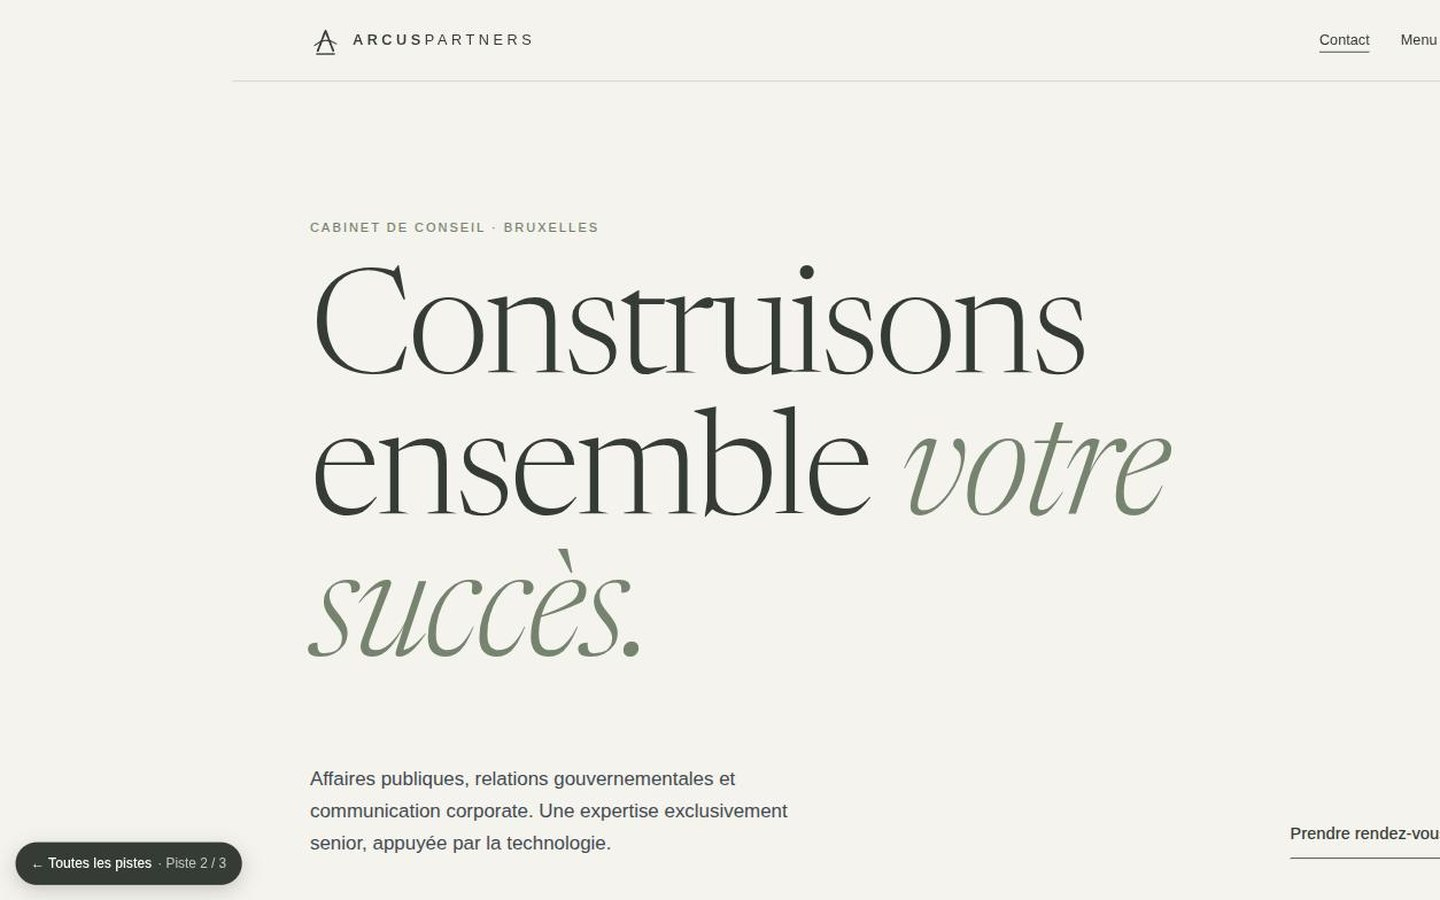
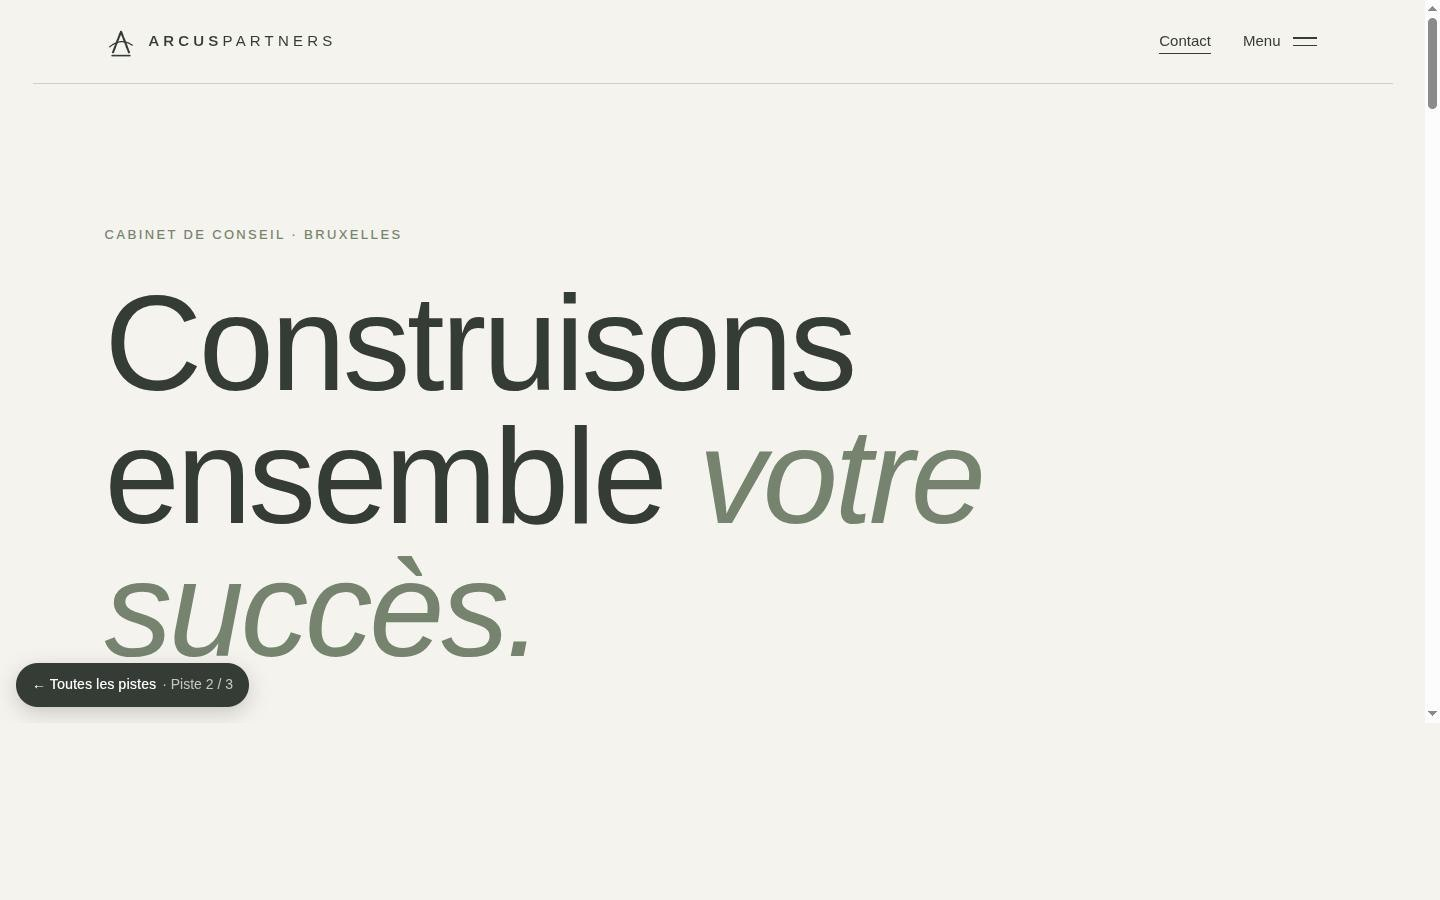
Ouvre les pistes dans un nouvel onglet et unifie la typo V2 en Arimo
Les 3 tuiles de la page d'accueil ouvrent desormais leur piste dans
un nouvel onglet (target="_blank") plutot que de naviguer hors de
la page de comparaison.

La piste 2 utilisait encore Newsreader (serif) pour les titres ;
elle passe entierement a Arimo comme les 2 autres pistes. Le poids
300 (absent chez Arimo, qui va de 400 a 700) est remplace par 400
partout ou il etait utilise. Le google font Newsreader, plus charge,
est retire du head. Vignette V2 regeneree.

Claude-Session: https://claude.ai/code/session_01GE1E4YgtJhGfgbkhegfAHw

diff --git a/v2/styles.css b/v2/styles.css
@@ -1,7 +1,7 @@
 /* =========================================================
    Arcus Partners - Piste 2 · Éditoriale
-   Inspiration Brunswick : papier chaud, serif de titrage, beaucoup d'air
-   Couleurs issues de la charte (palette definitive, v4)
+   Inspiration Brunswick : papier chaud, grands titres, beaucoup d'air
+   Couleurs et typo issues de la charte (palette definitive, v4)
    ========================================================= */
 
 :root {
@@ -16,7 +16,7 @@
   --line: #D4D0C6;
   --placeholder: #D8D5CC;
 
-  --serif: "Newsreader", "Iowan Old Style", Georgia, serif;
+  --serif: "Arimo", system-ui, -apple-system, "Segoe UI", sans-serif;
   --sans: "Arimo", system-ui, -apple-system, "Segoe UI", sans-serif;
 
   --gutter: clamp(20px, 5vw, 80px);
@@ -55,7 +55,7 @@ em { font-style: italic; color: var(--sage); }
 .header-inner { height: 84px; display: flex; align-items: center; justify-content: space-between; border-bottom: 1px solid var(--line); }
 .logo { display: inline-flex; align-items: center; gap: 12px; color: var(--ink); }
 .logo-mark { width: 32px; height: 32px; }
-.logo-text { font-size: 15px; letter-spacing: .28em; font-weight: 300; }
+.logo-text { font-size: 15px; letter-spacing: .28em; font-weight: 400; }
 .logo-text b { font-weight: 600; }
 .logo-text--sm { font-size: 13px; }
 .header-right { display: flex; align-items: center; gap: 28px; }
@@ -78,7 +78,7 @@ em { font-style: italic; color: var(--sage); }
 .menu-inner { padding-block: 48px; display: flex; flex-direction: column; gap: 40px; }
 .menu-list a {
   display: flex; align-items: baseline; gap: 24px; padding-block: 14px;
-  font-family: var(--serif); font-weight: 300; font-size: clamp(36px, 6vw, 72px); line-height: 1.1;
+  font-family: var(--serif); font-weight: 400; font-size: clamp(36px, 6vw, 72px); line-height: 1.1;
   border-bottom: 1px solid var(--line); transition: color .2s, padding-left .3s;
 }
 .menu-list a span { font-family: var(--sans); font-size: 14px; color: var(--sage); min-width: 28px; }
@@ -91,7 +91,7 @@ body.menu-open { overflow: hidden; }
 .hero { padding-top: clamp(64px, 10vw, 140px); padding-bottom: clamp(48px, 6vw, 80px); }
 .hero .eyebrow { margin-bottom: 32px; }
 .hero-title {
-  font-family: var(--serif); font-weight: 300;
+  font-family: var(--serif); font-weight: 400;
   font-size: clamp(52px, 9.4vw, 148px); line-height: .98; letter-spacing: -.025em;
   max-width: 12ch;
 }
@@ -116,7 +116,7 @@ body.menu-open { overflow: hidden; }
 .section-grid { display: grid; grid-template-columns: minmax(0, 1fr) minmax(0, 3fr); gap: 40px 64px; }
 .section-grid > .eyebrow { padding-top: 14px; }
 .h2 {
-  font-family: var(--serif); font-weight: 300;
+  font-family: var(--serif); font-weight: 400;
   font-size: clamp(38px, 4.6vw, 68px); line-height: 1.05; letter-spacing: -.015em;
   margin-bottom: clamp(40px, 5vw, 72px);
 }
@@ -137,13 +137,13 @@ body.menu-open { overflow: hidden; }
 /* Citation mission */
 .quote {
   margin: 40px auto 0; max-width: 22ch; text-align: center;
-  font-family: var(--serif); font-weight: 300; font-style: italic;
+  font-family: var(--serif); font-weight: 400; font-style: italic;
   font-size: clamp(32px, 4.4vw, 64px); line-height: 1.12; color: var(--ink);
 }
 .quote-intro { margin: 40px auto 0; max-width: 640px; text-align: center; color: var(--charcoal); }
 .trio { margin-top: clamp(56px, 7vw, 96px); display: grid; grid-template-columns: repeat(3, minmax(0, 1fr)); gap: 48px; }
 .trio-item { border-top: 1px solid var(--ink); padding-top: 24px; display: flex; flex-direction: column; gap: 12px; }
-.trio-num { font-family: var(--serif); font-size: 56px; font-weight: 300; line-height: 1; color: var(--sage); }
+.trio-num { font-family: var(--serif); font-size: 56px; font-weight: 400; line-height: 1; color: var(--sage); }
 .trio-item h3 { font-size: 19px; font-weight: 600; }
 .trio-item p { color: var(--charcoal); font-size: 16px; }
 
@@ -153,7 +153,7 @@ body.menu-open { overflow: hidden; }
 .marquee { overflow: hidden; }
 .marquee-track { display: flex; width: max-content; animation: marquee 40s linear infinite; }
 .marquee-track span {
-  font-family: var(--serif); font-weight: 300; font-style: italic;
+  font-family: var(--serif); font-weight: 400; font-style: italic;
   font-size: clamp(44px, 6vw, 88px); line-height: 1.1; padding-inline: 40px; white-space: nowrap;
 }
 .marquee-track span::after { content: "·"; margin-left: 80px; color: var(--sage); font-style: normal; }
@@ -175,7 +175,7 @@ body.menu-open { overflow: hidden; }
 .contact { background: var(--sage-deep); color: #F5F3EE; padding-block: var(--section-y); }
 .contact em { color: #D8DDCF; }
 .contact-inner { display: grid; grid-template-columns: minmax(0, 1.4fr) minmax(0, 1fr); gap: 48px 80px; align-items: end; }
-.contact-title { font-family: var(--serif); font-weight: 300; font-size: clamp(48px, 7vw, 108px); line-height: 1; letter-spacing: -.02em; }
+.contact-title { font-family: var(--serif); font-weight: 400; font-size: clamp(48px, 7vw, 108px); line-height: 1; letter-spacing: -.02em; }
 .contact-side { display: flex; flex-direction: column; gap: 20px; font-size: 17px; }
 .contact-mail {
   font-family: var(--serif); font-size: clamp(24px, 2.4vw, 34px);

diff --git a/index.html b/index.html
@@ -26,7 +26,7 @@
 
     <ul class="tiles">
       <li>
-        <a class="tile" href="v1/">
+        <a class="tile" href="v1/" target="_blank" rel="noopener">
           <div class="tile-thumb"><img src="thumbs/v1.jpg" alt="Aperçu de la piste 1 : en-tête blanc, grand titre vert fonce, photo à droite" loading="lazy" width="1440" height="900"></div>
           <div class="tile-body">
             <p class="tile-num">Piste 1</p>
@@ -41,22 +41,22 @@
         </a>
       </li>
       <li>
-        <a class="tile" href="v2/">
-          <div class="tile-thumb"><img src="thumbs/v2.jpg" alt="Aperçu de la piste 2 : fond papier, très grand titre en serif avec mots en vert sauge" loading="lazy" width="1440" height="900"></div>
+        <a class="tile" href="v2/" target="_blank" rel="noopener">
+          <div class="tile-thumb"><img src="thumbs/v2.jpg" alt="Aperçu de la piste 2 : fond papier, très grand titre avec mots en vert sauge" loading="lazy" width="1440" height="900"></div>
           <div class="tile-body">
             <p class="tile-num">Piste 2</p>
             <h2>Éditoriale</h2>
-            <p>Dans l’esprit de Brunswick. Papier chaud, grands titres en serif, beaucoup d’air, sauge en accent. Un ton de magazine d’opinion.</p>
+            <p>Dans l’esprit de Brunswick. Papier chaud, grands titres, beaucoup d’air, sauge en accent. Un ton de magazine d’opinion.</p>
             <ul class="swatches" aria-label="Palette">
               <li style="--c:#323932" title="Encre"></li><li style="--c:#616F5C" title="Sauge profond"></li><li style="--c:#76846F" title="Sauge"></li><li style="--c:#F5F3EE" title="Papier"></li>
             </ul>
-            <p class="tile-tags">Logo concept 1 · Serif + sans · Menu plein écran</p>
+            <p class="tile-tags">Logo concept 1 · Arimo · Menu plein écran</p>
             <span class="tile-cta">Voir la maquette <span aria-hidden="true">→</span></span>
           </div>
         </a>
       </li>
       <li>
-        <a class="tile" href="v3/">
+        <a class="tile" href="v3/" target="_blank" rel="noopener">
           <div class="tile-thumb"><img src="thumbs/v3.jpg" alt="Aperçu de la piste 3 : fond vert fonce, titre centré en gras, arche dessinée en arrière-plan" loading="lazy" width="1440" height="900"></div>
           <div class="tile-body">
             <p class="tile-num">Piste 3</p>

diff --git a/v2/index.html b/v2/index.html
@@ -7,7 +7,7 @@
   <meta name="robots" content="noindex">
   <link rel="preconnect" href="https://fonts.googleapis.com">
   <link rel="preconnect" href="https://fonts.gstatic.com" crossorigin>
-  <link href="https://fonts.googleapis.com/css2?family=Newsreader:ital,opsz,wght@0,6..72,300;0,6..72,400;1,6..72,300;1,6..72,400&family=Arimo:ital,wght@0,400..700;1,400..700&display=swap" rel="stylesheet">
+  <link href="https://fonts.googleapis.com/css2?family=Arimo:ital,wght@0,400..700;1,400..700&display=swap" rel="stylesheet">
   <link rel="stylesheet" href="styles.css">
   <script src="script.js" defer></script>
 </head>
